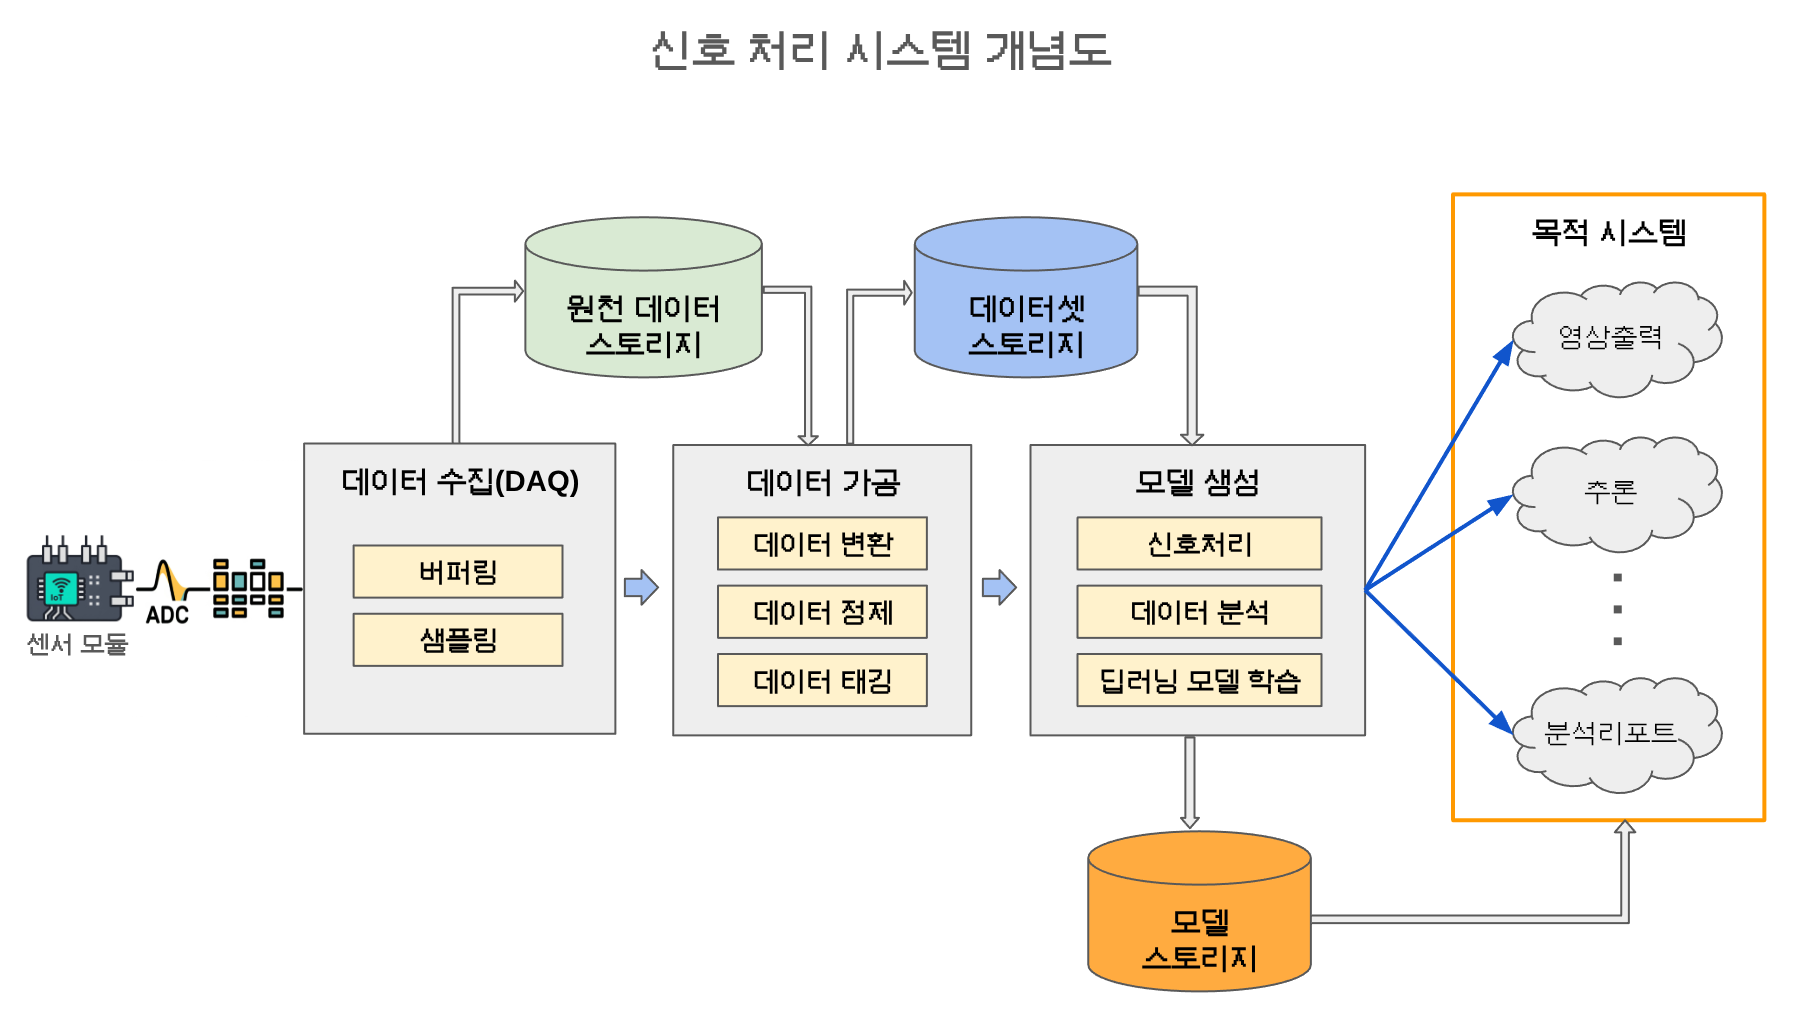
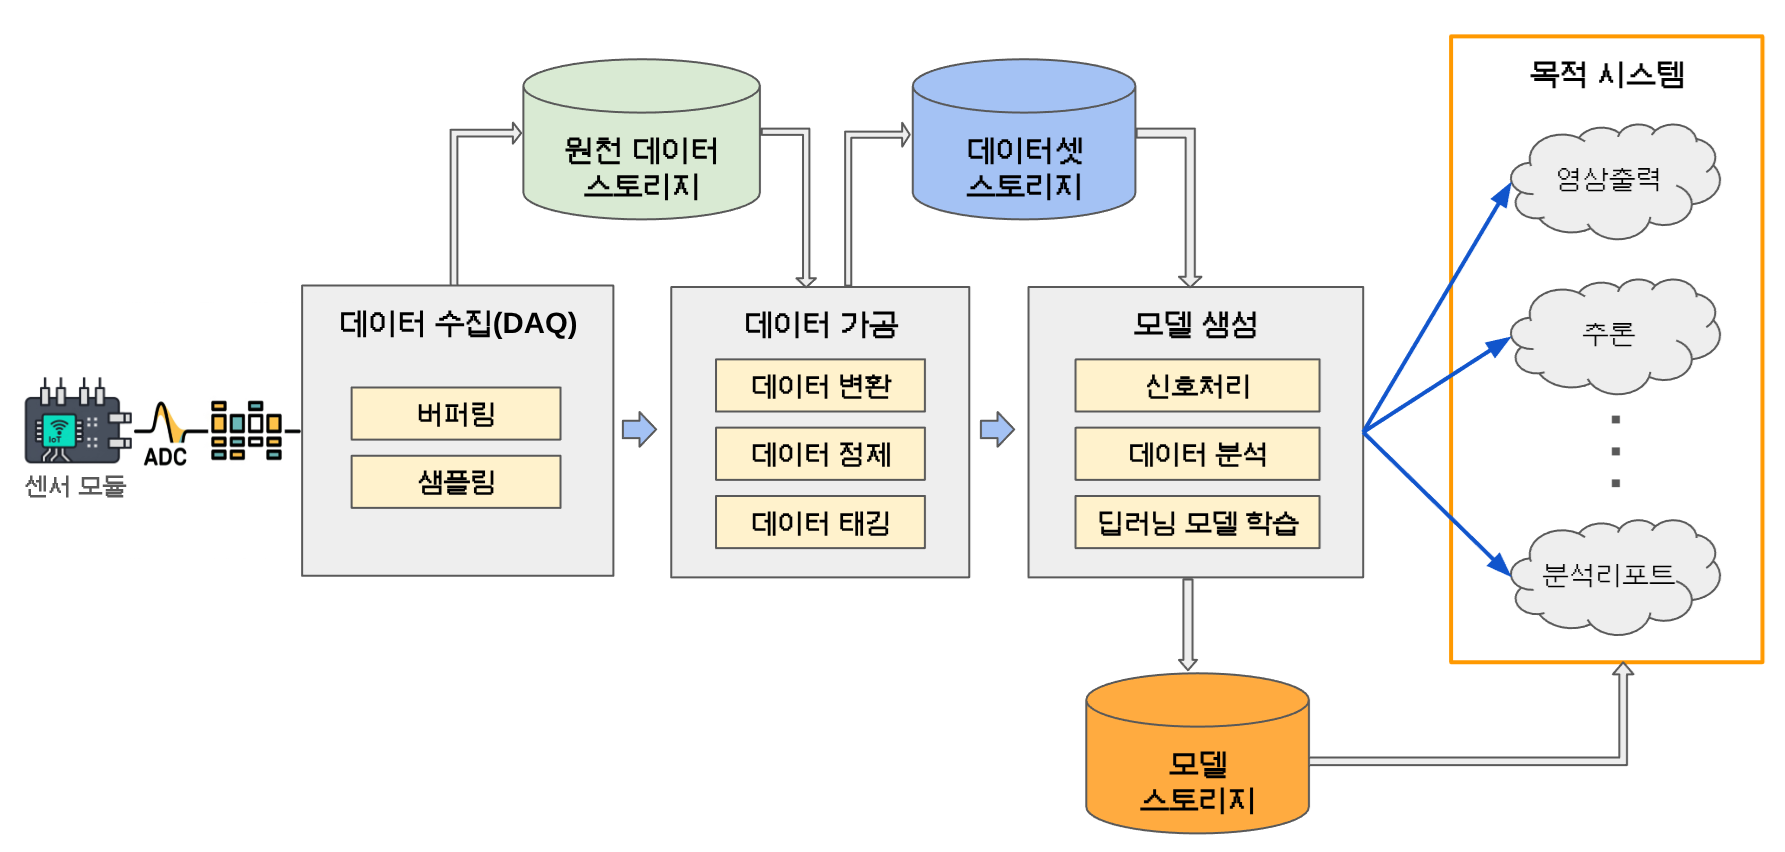
신호처리시스템 개념도 -> 연구 개발 워크플로우, png에서 타이틀 제거

diff --git a/index.html b/index.html
@@ -76,10 +76,10 @@
       </div>
     </section>
     <section id="concept" class="section">
-      <h2>연구 개념도</h2>
+      <h2>연구 개발 워크플로우</h2>
       <div class="card" style="text-align:center">
         <img src="assets/img/sig-flow.png" alt="신호 처리 시스템 개념도" style="max-width:100%;height:auto;border:1px solid #222831;border-radius:8px;" />
-        <p class="muted">신호 처리 시스템 개념도</p>
+        <p class="muted">신호 처리 시스템 개발 워크플로우/p>
       </div>
     </section>
     <section id="roadmap" class="roadmap">
